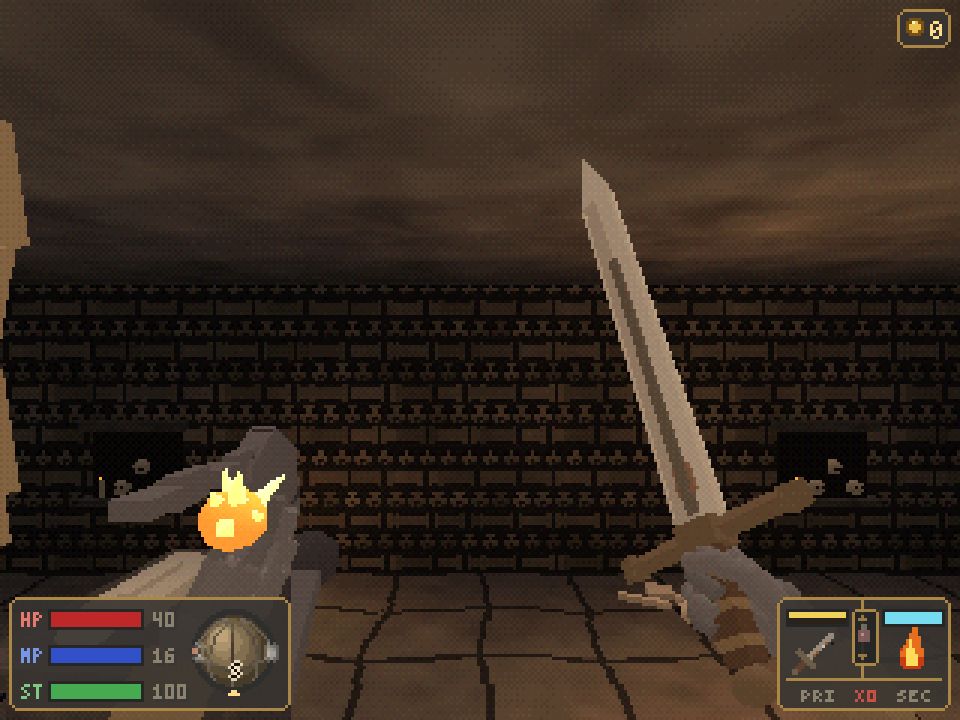
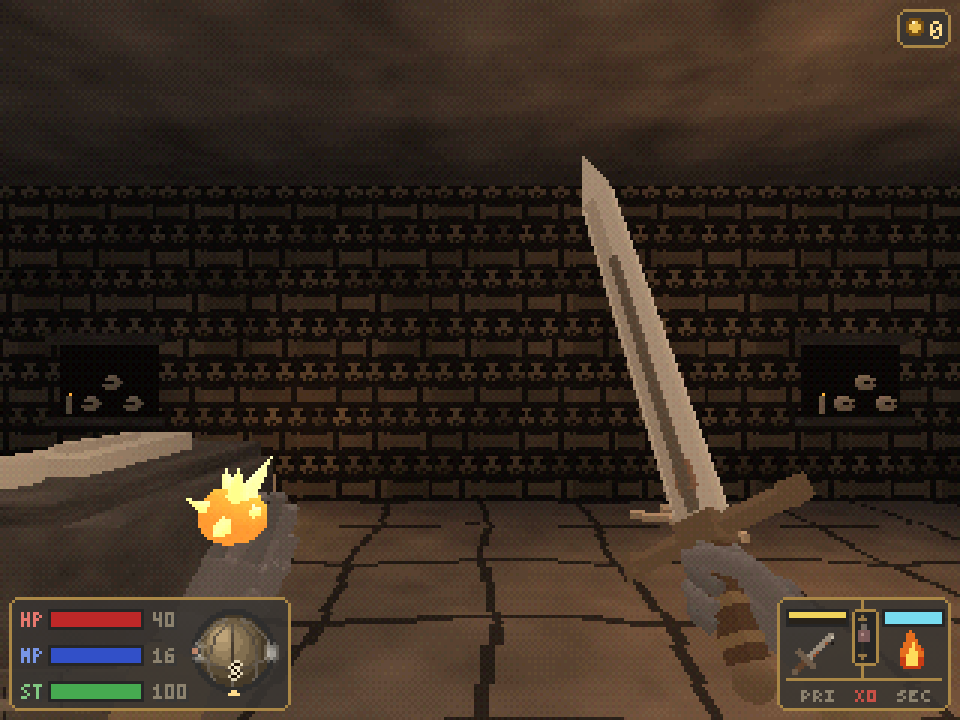
Retake the lift screenshot for the deeper Undercroft
The ride now drops 10 m, so the shot waits longer to catch the cage
settling at the bottom by the wall of bones.

diff --git a/README.md b/README.md
@@ -486,7 +486,7 @@ the flame bolt shot is
 `uv run ashen-vault --map sunken_keep --at 15,22,0 --smoke 40 --script "wait:0.3 cast" --shot flame_bolt.png`,
 the Loom Mother is `uv run ashen-vault --map verdant_hollow --at=15,7,-90 --smoke 40 --shot loom_mother.png`,
 the lift ride is
-`uv run ashen-vault --map sunken_keep --at 4,24,90 --smoke 560 --script "forward:0.15 wait:5 forward:0.6 wait:5" --shot undercroft_lift.png`,
+`uv run ashen-vault --map sunken_keep --at 4,24,90 --smoke 680 --script "forward:0.15 wait:5 forward:0.6 wait:7" --shot undercroft_lift.png`,
 the Butcher is `uv run ashen-vault --map sunken_keep --at=27,7,-90 --smoke 20 --shot gallery.png`,
 the jungle trail is `uv run ashen-vault --map harrowmere --at=56,34,-90 --smoke 40 --shot jungle_trail.png`,
 Mossmouth is
